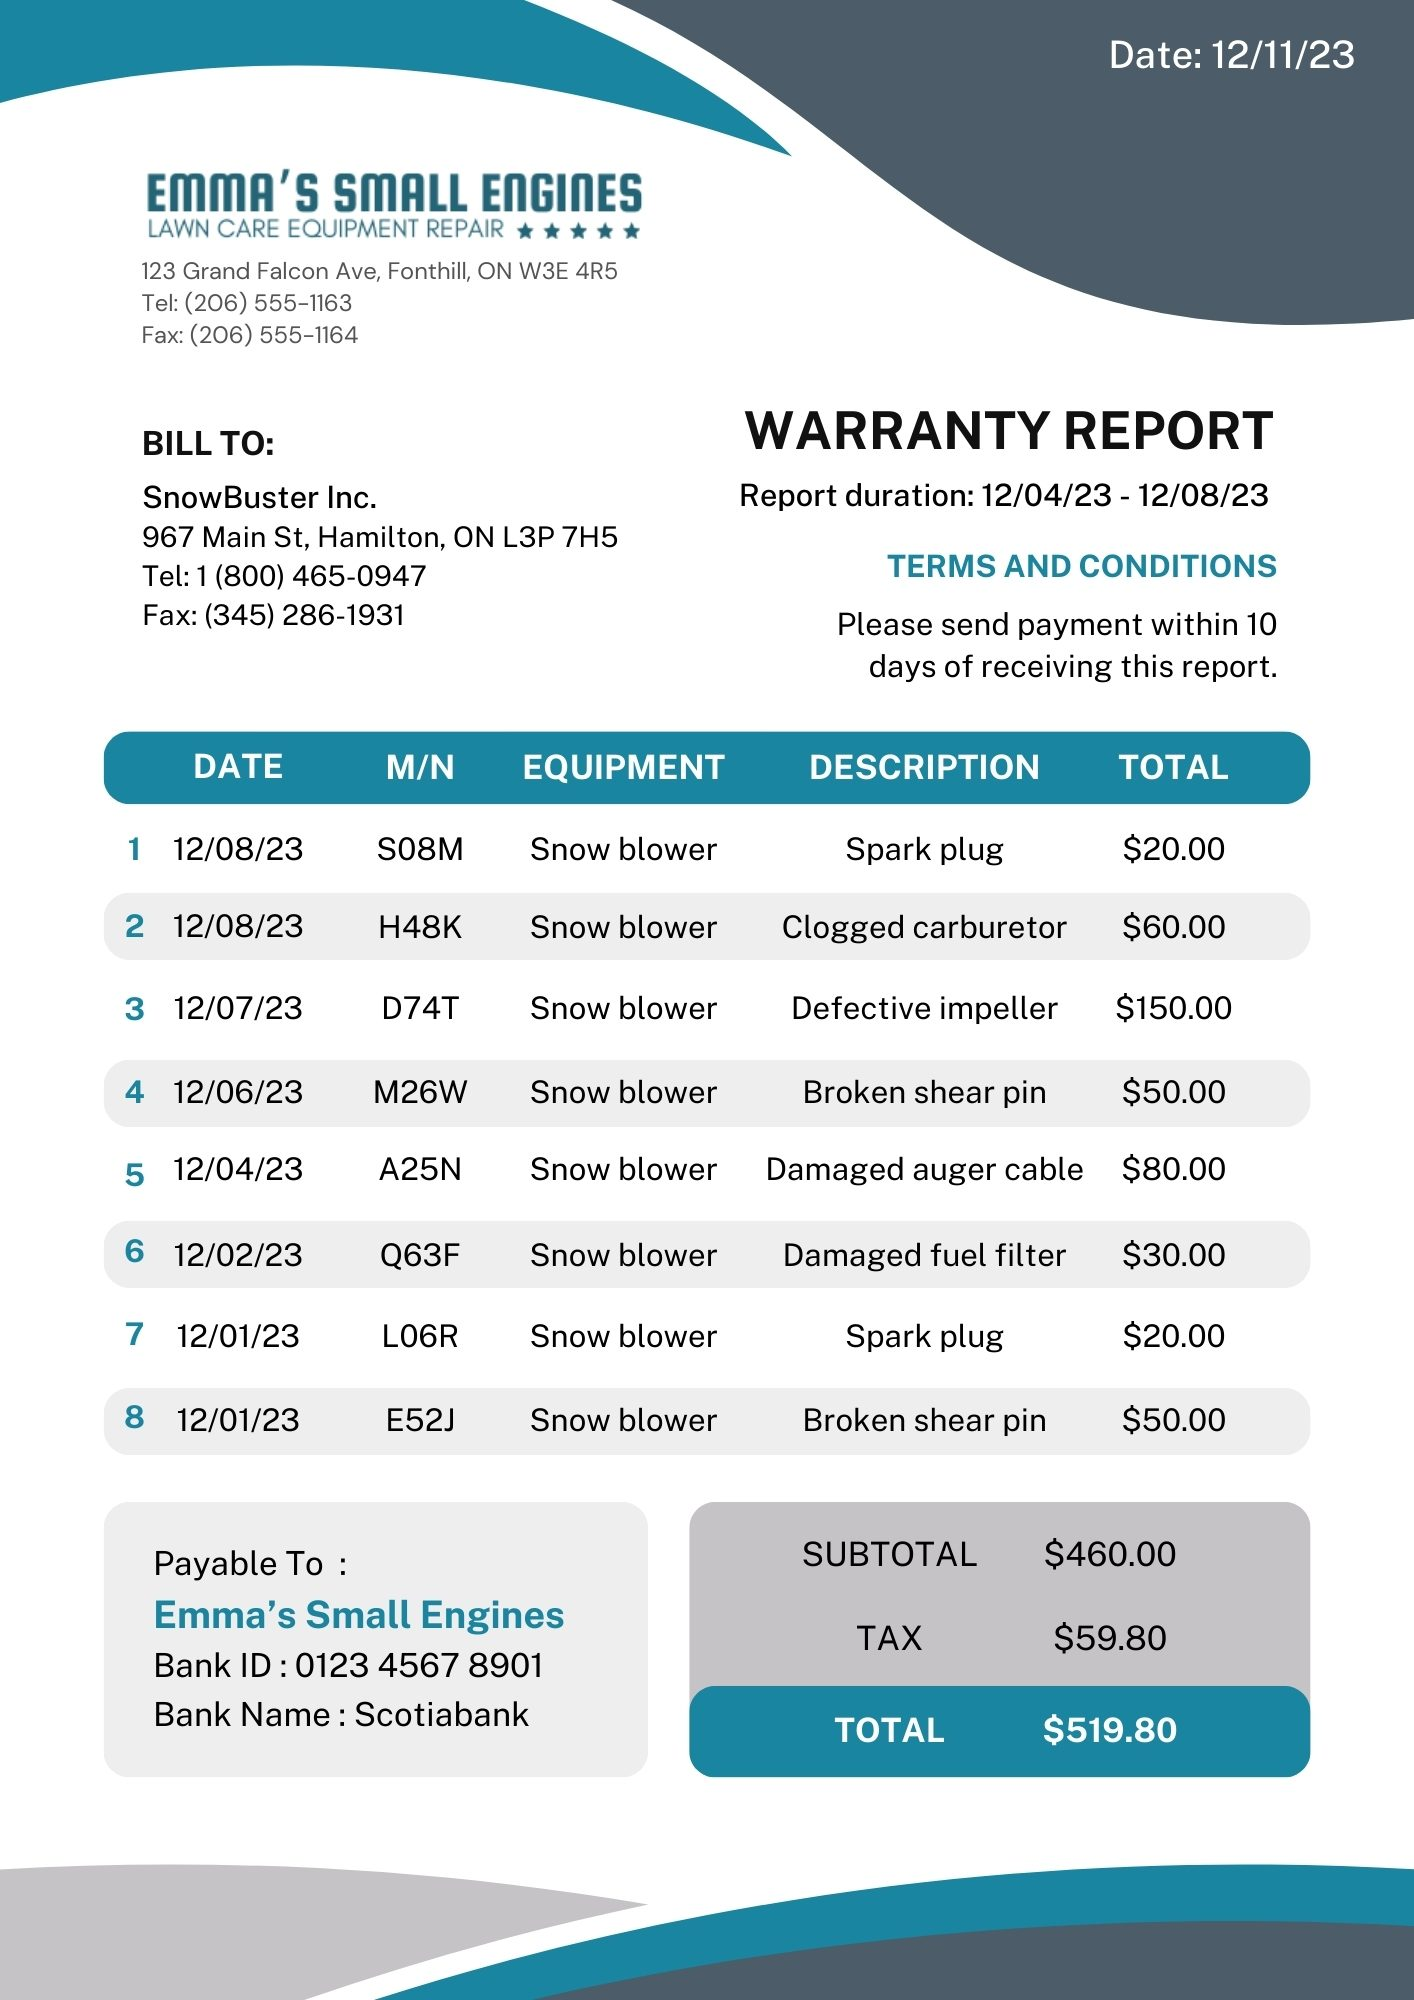
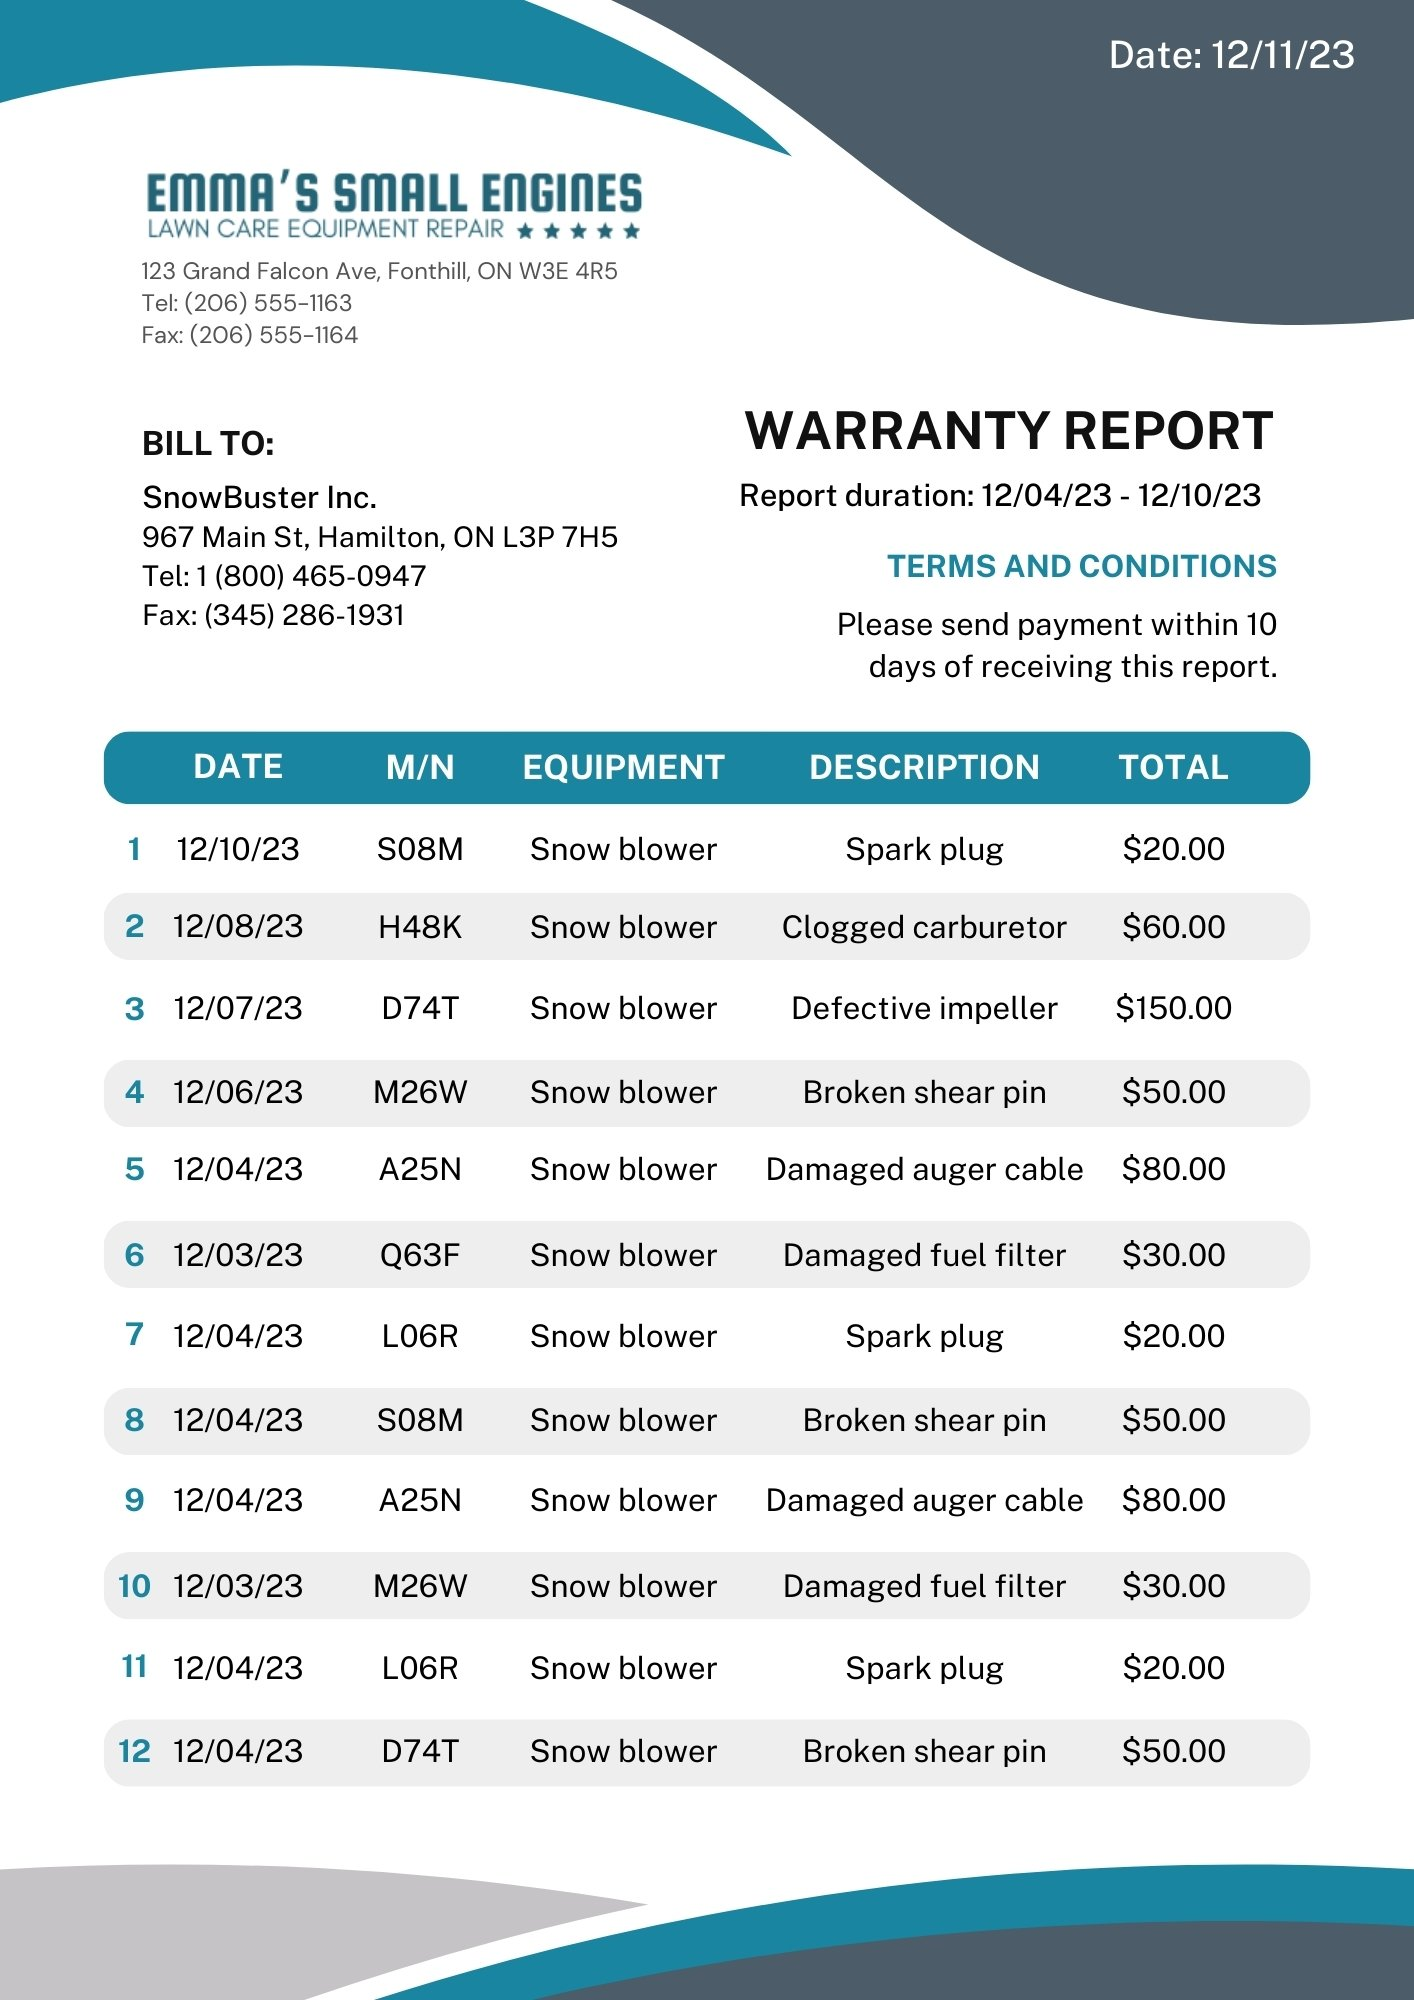
warranty img edited

diff --git a/pages/reports-home.html b/pages/reports-home.html
@@ -133,7 +133,7 @@
                         </div>
 
                         <div class="column two">
-                            <label for="week">Report run date:</label>
+                            <label for="week">Report duration:</label>
                             <div>
                                 <input type="week" class="week" id="week" name="report-week" min="2023-W01"
                                     max="2023-W52" required />
@@ -196,8 +196,8 @@
                             <tbody id="customerTableBody">
                                 <tr>
                                     <td class="report-name">Warranty Report</td>
-                                    <td>2023-12-04</td>
-                                    <td>2023-12-08</td>
+                                    <td>2023-11-27</td>
+                                    <td>2023-12-03</td>
                                     <td><b>Worx</b></td>
                                     <td>Pressure Washer</td>
                                     <td><a href="" class="btn rounded-circle report">
@@ -206,8 +206,8 @@
                                 </tr>
                                 <tr>
                                     <td class="report-name">Warranty Report</td>
-                                    <td>2023-11-27</td>
-                                    <td>2023-12-01</td>
+                                    <td>2023-11-20</td>
+                                    <td>2023-11-26</td>
                                     <td><b>Ryobi</b></td>
                                     <td>All Equipment</td>
                                     <td><a href="" class="btn rounded-circle report">
@@ -216,8 +216,8 @@
                                 </tr>
                                 <tr>
                                     <td class="report-name">Warranty Report</td>
-                                    <td>2023-11-20</td>
-                                    <td>2023-11-24</td>
+                                    <td>2023-11-13</td>
+                                    <td>2023-11-19</td>
                                     <td><b>Husqvarna</b></td>
                                     <td>Chainsaw</td>
                                     <td><a href="" class="btn rounded-circle report">
@@ -388,8 +388,8 @@
             // Replace the sample data with your actual data
             newRow.innerHTML = `
         <td class="report-name">${selectedReport}</td>
-        <td>2023-12-08</td>
-        <td>2023-12-08</td>
+        <td>2023-12-04</td>
+        <td>2023-12-10</td>
         <td><b>SnowBuster</b></td>
         <td>Snow Blower</td>
         <td><a href="completed-warranty-report.html" class="btn rounded-circle report">

diff --git a/pages/completed-warranty-report.html b/pages/completed-warranty-report.html
@@ -180,6 +180,9 @@
                 <div id="printable-content">
                     <img src="../images/warranty-report.jpg" alt="" class="img-fluid invoice-pg-center shadow mb-5"
                         width="50%">
+
+                    <img src="../images/warranty-report2.jpg" alt="" class="img-fluid invoice-pg-center shadow mb-5"
+                        width="50%">
                 </div>
             </div>
 
